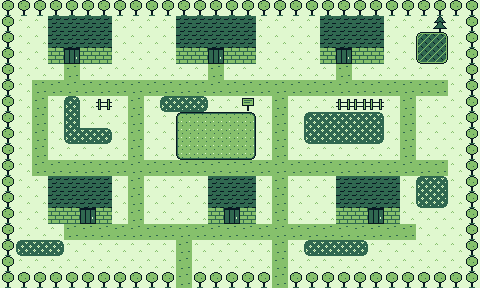
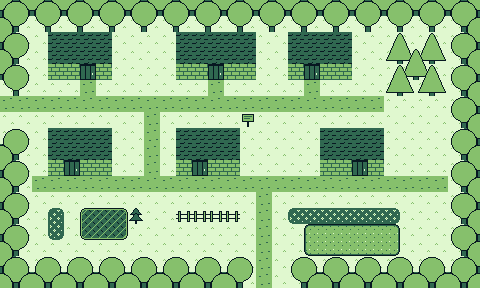
Village walled in with the round forest brush (woods running on past its edges) and a pine grove; Picture to background's card plays the author's photo of Sammie turning into pixels; the catalog gets a generated cave, dungeon and forest screen

diff --git a/src/graphics/scenes.ts b/src/graphics/scenes.ts
@@ -4,7 +4,7 @@
  * (an 8 × 8 nine-slice) and the 8 × 8 menu cursor. Backgrounds in screens of 160 × 144 (10 × 9 tiles).
  */
 import { drawCave, drawWorld } from "../app/generators";
-import { paintXp, sheet } from "./areas";
+import { paintForest, paintXp, sheet } from "./areas";
 import { Pen, canvas, textWidth, type Canvas } from "./pen";
 import { outdoorTile, TILES } from "./tiles";
 
@@ -129,47 +129,55 @@ const level = [
 const levelLegend = { ".": "sky", "?": "questionBlock", "=": "platform", L: "ladder", "^": "spikesUp", G: "groundTop", d: "ground", "~": "waterSide", B: "brick", p: "pipe" };
 
 /**
- * The village, 30 × 18 cells of 16 (3 × 2 screens), remade after the author's Town (2026-10-13, the Asset Catalog
- * project's Town.png): a ring of small round trees with ways out at the bottom, houses with two rows of roof over a
- * brick wall and their door on a path, plain Path tiles in a grid (as the author painted them), Flower bed XP hedges, a framed field (Ground XP),
- * a little pond (Floor tiles XP) under a pine, fences, a sign and a few bushes on Grass XP.
- * Cells: "." grass, T tree, R roof, W wall, D door, "," path, h hedge, c field, o pond, F fence, s sign, P pine.
+ * The village, 30 × 18 cells of 16 (3 × 2 screens), first remade after the author's Town (2026-10-13), then walled
+ * in with the forest brush (the author, 2026-10-14: "use the tree/forest brush to reimagine the village"): a ring of
+ * round forest two cells thick with ways out at the bottom and the left, a pine grove in the north-east, houses with
+ * two rows of roof over a brick wall and their door on a path, Flower bed XP hedges, a framed field (Ground XP), a
+ * pond (Floor tiles XP) with a pine, a fence and a sign on Grass XP.
+ * Cells: "." grass, T round forest, G pine grove, R roof, W wall, D door, "," path, h hedge, c field, o pond,
+ * F fence, s sign, P pine. Forest only comes in whole 32 px units (2 × 2 cells on even cells).
  */
 function village(): string[] {
   const W = 30, H = 18, map = Array.from({ length: H }, () => Array.from({ length: W }, () => "."));
   const set = (x: number, y: number, c: string) => { if (x >= 0 && y >= 0 && x < W && y < H) map[y][x] = c; };
   const box = (x: number, y: number, w: number, h: number, c: string) => { for (let dy = 0; dy < h; dy += 1) for (let dx = 0; dx < w; dx += 1) set(x + dx, y + dy, c); };
-  box(0, 0, W, 1, "T"); box(0, H - 1, W, 1, "T"); box(0, 0, 1, H, "T"); box(W - 1, 0, 1, H, "T");
-  // Paths: two long ones across, three down, the ways out at the bottom.
-  box(2, 5, 26, 1, ","); box(2, 10, 26, 1, ","); box(4, 14, 22, 1, ",");
-  box(2, 5, 1, 6, ","); box(8, 5, 1, 10, ","); box(17, 5, 1, 13, ","); box(25, 5, 1, 6, ","); box(11, 14, 1, 4, ",");
-  // Houses: roof, roof, wall with its door, a path from the door to the nearest path.
+  // The forest ring, two cells thick, and its ways out: the bottom at columns 16–17, the left at rows 6–7.
+  box(0, 0, W, 2, "T"); box(0, H - 2, W, 2, "T"); box(0, 0, 2, H, "T"); box(W - 2, 0, 2, H, "T");
+  box(16, H - 2, 2, 2, "."); box(0, 6, 2, 2, ".");
+  box(24, 2, 4, 4, "G");
+  // Paths: two across (the upper one out to the left), one down between them, one down to the bottom way out.
+  box(0, 6, 24, 1, ","); box(2, 11, 26, 1, ","); box(9, 6, 1, 6, ","); box(16, 11, 1, 7, ",");
+  // Houses: roof, roof, wall with its door, a path from the door to the path beside it.
   const house = (x: number, y: number, w: number, door: number, to: number) => {
     box(x, y, w, 2, "R"); box(x, y + 2, w, 1, "W"); set(door, y + 2, "D");
     for (let py = y + 3; py !== to; py += to > y ? 1 : -1) set(door, py, ",");
   };
-  house(3, 1, 4, 4, 5); house(11, 1, 5, 13, 5); house(20, 1, 4, 21, 5);
-  house(3, 11, 4, 5, 14); house(13, 11, 3, 14, 14); house(21, 11, 4, 23, 14);
-  // Hedges, the field, the pond under its pine, fences, a sign and bushes.
-  box(4, 6, 1, 3, "h"); box(4, 8, 3, 1, "h"); box(10, 6, 3, 1, "h"); box(19, 7, 5, 2, "h"); box(26, 11, 2, 2, "h"); box(1, 15, 3, 1, "h"); box(19, 15, 4, 1, "h");
-  box(11, 7, 5, 3, "c");
-  box(26, 2, 2, 2, "o"); set(27, 1, "P");
-  box(6, 6, 1, 1, "F"); box(21, 6, 3, 1, "F");
-  set(15, 6, "s");
+  house(3, 2, 4, 5, 6); house(11, 2, 5, 13, 6); house(18, 2, 4, 19, 6);
+  house(3, 8, 4, 4, 11); house(11, 8, 4, 12, 11); house(20, 8, 4, 22, 11);
+  // Hedges, the field, the pond with its pine, a fence and a sign.
+  box(18, 13, 7, 1, "h"); box(3, 13, 1, 2, "h");
+  box(19, 14, 6, 2, "c");
+  box(5, 13, 3, 2, "o"); set(8, 13, "P");
+  box(11, 13, 4, 1, "F");
+  set(15, 7, "s");
   return map.map((row) => row.join(""));
 }
-const villageLegend = { ".": "grass", T: "tree", P: "pine", R: "roof", W: "houseWall", D: "door", ",": "path", h: "grass", c: "grass", o: "grass", F: "fence", s: "sign" };
+const villageLegend = { ".": "grass", T: "grass", G: "grass", P: "pine", R: "roof", W: "houseWall", D: "door", ",": "path", h: "grass", c: "grass", o: "grass", F: "fence", s: "sign" };
 
 /**
  * The village as one picture (480 × 288): the tiles from the Outdoor tiles sheet (the author's versions), its paths,
- * hedges, field and pond painted with the library's XP pieces, joined at their edges as the stamps would.
+ * hedges, field and pond painted with the library's XP pieces, joined at their edges as the stamps would, and the
+ * forest with the round and pine forest brushes.
  */
 export const villageMap = () => {
   const rows = village(), w = rows[0].length, h = rows.length;
+  const unit = (c: string) => (ux: number, uy: number) => [0, 1].every((dy) => [0, 1].every((dx) => rows[uy * 2 + dy]?.[ux * 2 + dx] === c));
   return fromMap(rows, villageLegend, (out) => {
     paintXp(out, sheet("xp-flowers"), (x, y) => rows[y][x] === "h", w, h, false);
     paintXp(out, sheet("xp-ground"), (x, y) => rows[y][x] === "c", w, h, false);
     paintXp(out, sheet("xp-ice"), (x, y) => rows[y][x] === "o", w, h, false);
+    paintForest(out, sheet("round"), unit("T"), w / 2, h / 2, 0, 0, true);
+    paintForest(out, sheet("pines"), unit("G"), w / 2, h / 2);
   });
 };
 

diff --git a/src/graphics/library.ts b/src/graphics/library.ts
@@ -13,6 +13,7 @@ import { INDOOR, OUTDOOR, SIDE } from "./tiles";
 import { pieces } from "./pieces";
 import { APPROVED, TEMP_ASSETS } from "./temp";
 import { AUTHORED } from "./authored";
+import { CAVE_DEFAULTS, drawCave } from "../app/generators";
 import { OPENGAMEART } from "./opengameart";
 import { setCatalogArt } from "./areas";
 import { CLEAR, canvas, type Canvas } from "./pen";
@@ -104,6 +105,10 @@ const ALL: WireAsset[] = [
   { id: "scene-dialogue", name: "Dialogue", group: "Scenes", kind: "backgrounds", about: "The village's first screen with a dialogue box.", make: scenes.dialogue },
   { id: "scene-village", name: "Village (whole)", group: "Map screens", kind: "backgrounds", about: "The whole village, 480 × 288, before it is cut into screens.", make: villageMap },
   ...[0, 1].flatMap((row) => [0, 1, 2].map((column): WireAsset => ({ id: `village-${column}-${row}`, name: `Village ${column + 1}-${row + 1}`, group: "Map screens", kind: "backgrounds", about: `Screen ${column + 1} of 3 across, ${row + 1} of 2 down. Neighbours share their edge tiles, so they join in the Map Room.`, make: () => villageScreen(column, row) }))),
+  // A sample of each map the cave wizard makes (the author, 2026-10-14), one screen each, so the catalog shows them.
+  { id: "gen-cave", name: "Cave (generated)", group: "Generated maps", kind: "backgrounds", about: "One screen from the Cave or dungeon wizard: a cave in Cliff XP's 32 px walls. The wizard makes more, any size.", make: () => drawCave({ ...CAVE_DEFAULTS, columns: 1, rows: 1, seed: 7 }) },
+  { id: "gen-dungeon", name: "Dungeon (generated)", group: "Generated maps", kind: "backgrounds", about: "One screen from the Cave or dungeon wizard: rooms and corridors in 9-sliced stone.", make: () => drawCave({ ...CAVE_DEFAULTS, style: "dungeon", columns: 1, rows: 1, seed: 4, rooms: 5, roomSize: 4 }) },
+  { id: "gen-forest", name: "Forest (generated)", group: "Generated maps", kind: "backgrounds", about: "One screen from the Cave or dungeon wizard with forest walls: clearings among pines.", make: () => drawCave({ ...CAVE_DEFAULTS, columns: 1, rows: 1, seed: 3, walls: "pines" }) },
   { id: "scene-room", name: "Point-and-click room", group: "Scenes", kind: "backgrounds", make: scenes.room },
   // The temp assets the author approved (swipe review, 2026-10-13): XP area auto-tiles and seamless patterns.
   ...TEMP_ASSETS.filter((asset) => APPROVED.has(asset.id)).map((asset): WireAsset => ({ id: asset.id, name: asset.name, group: asset.family === "xp" ? "XP auto-tiles" : "Patterns", kind: "stamps", about: asset.about, make: asset.make, ...(asset.autotile ? { autotile: asset.autotile } : {}) })),

diff --git a/src/app/wizardThumbs.ts b/src/app/wizardThumbs.ts
@@ -111,6 +111,30 @@ export function wizardThumb(id: WizardThumb, frame = 0): Generated {
 
 /** How many frames each wizard's loop has, and how long each shows (ms). */
 export const WIZARD_FRAMES: Record<WizardThumb, { count: number; ms: number }> = {
-  picture: { count: 8, ms: 260 }, dns: { count: 64, ms: 90 }, paletteSet: { count: 10, ms: 260 }, budget: { count: 6, ms: 700 },
+  picture: { count: 12, ms: 220 }, dns: { count: 64, ms: 90 }, paletteSet: { count: 10, ms: 260 }, budget: { count: 6, ms: 700 },
   cave: { count: 4, ms: 1100 }, world: { count: 4, ms: 1100 }, checkup: { count: 6, ms: 600 },
 };
+
+/**
+ * Picture to background's loop (the author, 2026-10-14: their dog Sammie): the photo, and a wipe sweeping across it
+ * that leaves the fitted version behind, each 8 × 8 tile in the nearer of two four-color palettes, as the wizard does.
+ */
+const FIT_PALETTES = [["#F4DCCB", "#D9938C", "#7B4A36", "#24140E"], ["#E6C690", "#AE7D4C", "#5E3E26", "#1C120C"]]
+  .map((colors) => colors.map((hex) => [1, 3, 5].map((i) => parseInt(hex.slice(i, i + 2), 16))));
+export function photoFrames(photo: ImageData, count = WIZARD_FRAMES.picture.count): ImageData[] {
+  const { width, height, data } = photo, fitted = new Uint8ClampedArray(data);
+  const distance = (i: number, c: number[]) => (data[i] - c[0]) ** 2 + (data[i + 1] - c[1]) ** 2 + (data[i + 2] - c[2]) ** 2;
+  const nearest = (i: number, palette: number[][]) => palette.reduce((best, color) => distance(i, color) < distance(i, best) ? color : best);
+  for (let ty = 0; ty < height; ty += 8) for (let tx = 0; tx < width; tx += 8) {
+    const pixels: number[] = [];
+    for (let y = ty; y < Math.min(height, ty + 8); y += 1) for (let x = tx; x < Math.min(width, tx + 8); x += 1) pixels.push((y * width + x) * 4);
+    const palette = FIT_PALETTES.reduce((best, palette) => pixels.reduce((sum, i) => sum + distance(i, nearest(i, palette)), 0) < pixels.reduce((sum, i) => sum + distance(i, nearest(i, best)), 0) ? palette : best);
+    for (const i of pixels) fitted.set(nearest(i, palette), i);
+  }
+  return Array.from({ length: count }, (_, frame) => {
+    const wipe = Math.round((frame / (count - 1)) * width), out = new Uint8ClampedArray(data);
+    for (let y = 0; y < height; y += 1) for (let x = 0; x < wipe; x += 1) out.set(fitted.subarray((y * width + x) * 4, (y * width + x) * 4 + 4), (y * width + x) * 4);
+    if (wipe > 0 && wipe < width) for (let y = 0; y < height; y += 1) out.set([224, 248, 207, 255], (y * width + wipe) * 4);
+    return new ImageData(out, width, height);
+  });
+}

diff --git a/src/app/WizardGallery.tsx b/src/app/WizardGallery.tsx
@@ -7,7 +7,8 @@ import { useEffect, useMemo, useState, type ReactNode } from "react";
 import { toRgba } from "../paint";
 import { Dialog } from "../ui/kit";
 import { PxRobotHappy } from "../ui/setIcons";
-import { WIZARD_FRAMES, wizardThumb, type WizardThumb } from "./wizardThumbs";
+import { WIZARD_FRAMES, photoFrames, wizardThumb, type WizardThumb } from "./wizardThumbs";
+import sammie from "./sammie.png";
 import "./WizardGallery.css";
 
 export interface WizardCard {
@@ -30,12 +31,27 @@ const still = () => typeof window !== "undefined" && window.matchMedia?.("(prefe
 /** A wizard's loop, frame by frame (the last frame only, when the system asks for less motion). */
 function Thumb({ id, playing }: { id: WizardThumb; playing: boolean }) {
   const { count, ms } = WIZARD_FRAMES[id];
-  const frames = useMemo(() => Array.from({ length: count }, (_, frame) => {
+  // Picture to background plays the author's photo of Sammie turning into pixels (loaded, then fitted).
+  const [photo, setPhoto] = useState<ImageData[] | null>(null);
+  useEffect(() => {
+    if (id !== "picture") return;
+    const image = new Image();
+    image.onload = () => {
+      const scratch = document.createElement("canvas");
+      Object.assign(scratch, { width: image.width, height: image.height });
+      const context = scratch.getContext("2d")!;
+      context.drawImage(image, 0, 0);
+      setPhoto(photoFrames(context.getImageData(0, 0, image.width, image.height), count));
+    };
+    image.src = sammie;
+  }, [id, count]);
+  const drawn = useMemo(() => Array.from({ length: count }, (_, frame) => {
     const picture = wizardThumb(id, frame);
     const cells = picture.cells ?? new Uint8Array(Math.ceil(picture.width / 8) * Math.ceil(picture.height / 8));
     const palettes = (picture.palettes ?? []).map(({ name, colors }) => ({ name, colors }));
     return new ImageData(toRgba(picture.pixels, cells, picture.width, palettes), picture.width, picture.height);
   }), [id, count]);
+  const frames = photo ?? drawn;
   const [frame, setFrame] = useState(still() ? count - 1 : 0);
   const [target, setTarget] = useState<HTMLCanvasElement | null>(null);
   useEffect(() => {

diff --git a/src/graphics/areas.ts b/src/graphics/areas.ts
@@ -112,9 +112,12 @@ export function paintSliced(out: Canvas, art: Canvas, filled: Filled, cellsW: nu
   }
 }
 
-/** Forest on 32 px units (the pine or round forest brush): the clump inside, lone trees round the edge. */
-export function paintForest(out: Canvas, art: Canvas, forest: Filled, unitsW: number, unitsH: number, x0 = 0, y0 = 0) {
-  const is = (x: number, y: number) => x >= 0 && y >= 0 && x < unitsW && y < unitsH && forest(x, y);
+/**
+ * Forest on 32 px units (the pine or round forest brush): the clump inside, lone trees round the edge. With `beyond`,
+ * the woods go on past the picture's edge (no lone trees along it).
+ */
+export function paintForest(out: Canvas, art: Canvas, forest: Filled, unitsW: number, unitsH: number, x0 = 0, y0 = 0, beyond = false) {
+  const is = (x: number, y: number) => x < 0 || y < 0 || x >= unitsW || y >= unitsH ? beyond : forest(x, y);
   for (let y = 0; y < unitsH; y += 1) for (let x = 0; x < unitsW; x += 1) {
     forestLayout(is, x, y).forEach((piece, quarter) => {
       if (!piece) return;
